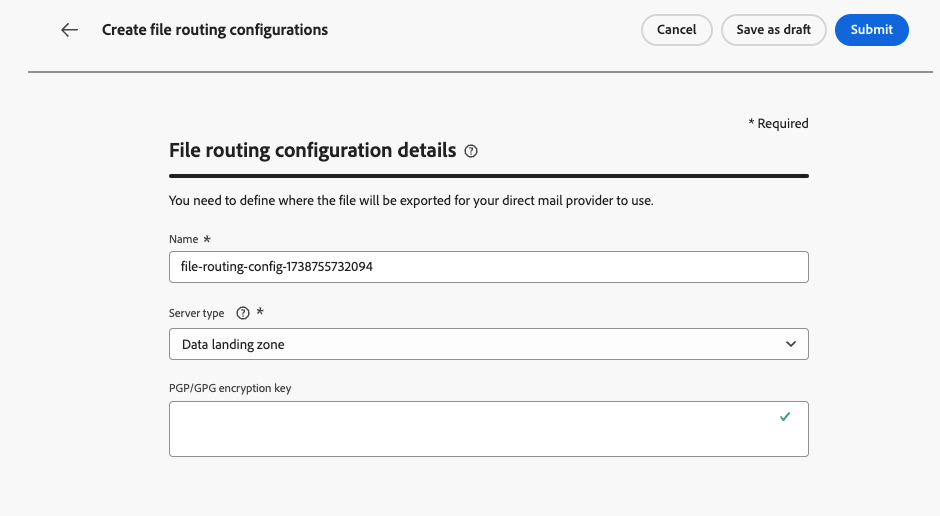
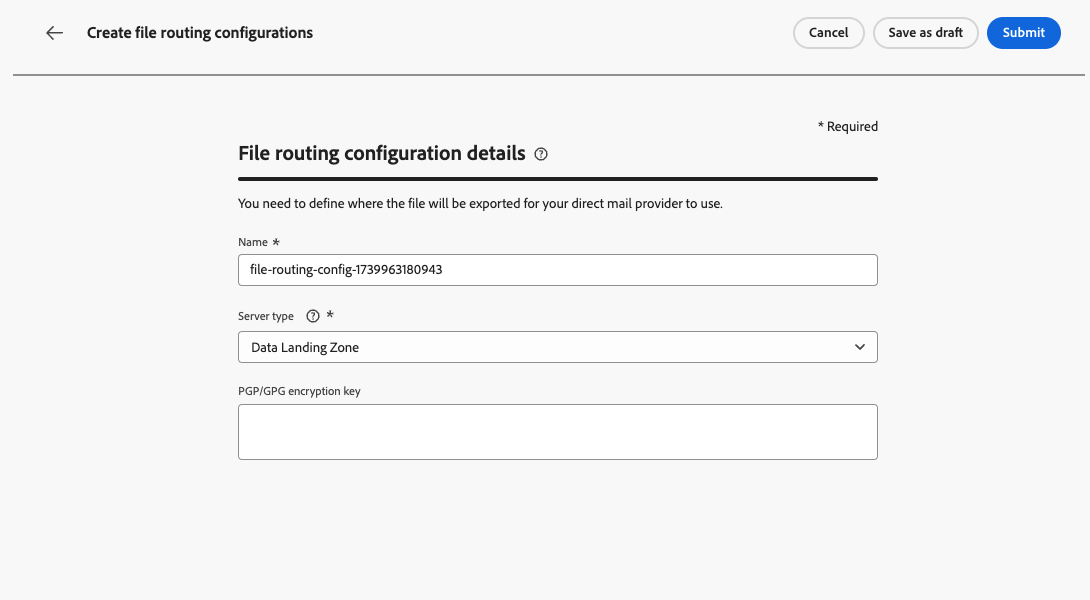
DOCAC-12034 DM config doc updates

diff --git a/help/using/direct-mail/direct-mail-configuration.md b/help/using/direct-mail/direct-mail-configuration.md
@@ -45,7 +45,7 @@ Before being able to generate this file, you need to create:
 >[!CONTEXTUALHELP]
 >id="ajo_dm_file_routing_type"
 >title="Select the server type for your file"
->abstract="Choose which type of server you want to use for exporting your direct mail files: Amazon S3, SFTP, or Azure."
+>abstract="Choose which type of server you want to use for exporting your direct mail files: Amazon S3, SFTP, Azure, or Data Landing Zone."
 
 >[!CONTEXTUALHELP]
 >id="ajo_dm_file_routing_aws_region"
@@ -54,7 +54,7 @@ Before being able to generate this file, you need to create:
 
 >[!NOTE]
 >
->Currently Amazon S3, SFTP, Azure, and Data landing zone are supported in [!DNL Journey Optimizer].
+>Currently Amazon S3, SFTP, Azure, and Data Landing Zone are supported in [!DNL Journey Optimizer].
 
 To deliver a direct mail message, [!DNL Journey Optimizer] generates and exports the file containing your targeted audience data to a server.
 
@@ -62,19 +62,25 @@ You need to specify that server details so that your direct mail provider can ac
 
 To configure the file routing, follow the steps below.
 
->[!BEGINTABS]
-
->[!TAB Amazon S3]
-
 1. Access the **[!UICONTROL Administration]** > **[!UICONTROL Channels]** > **[!UICONTROL Direct mail settings]** > **[!UICONTROL File Routing]** menu, then click **[!UICONTROL Create routing configuration]**.
 
     ![](assets/file-routing-config-button.png){width="800" align="center"}
 
 1. Set a name for your configuration.
 
-1. Select **Amazon S3** as the **[!UICONTROL Server type]** to use for exporting the direct mail files.
+1. Select the type of server you want to use for exporting your direct mail files: Amazon S3, SFTP, Azure, or Data Landing Zone. The fields specific to each server type are detailed in the tabs below.
 
     ![](assets/file-routing-config-type.png){width="800" align="center"}
+
+1. Select **[!UICONTROL Submit]**. The file routing configuration is created with the **[!UICONTROL Active]** status. It is now ready to be used in a [direct mail configuration](#direct-mail-surface).
+
+    You can also select **[!UICONTROL Save as draft]** to create the file routing configuration, but you will not be able to select it in a configuration until it is **[!UICONTROL Active]**.
+
+>[!BEGINTABS]
+
+>[!TAB Amazon S3]
+
+1. Select **[!UICONTROL Amazon S3]** as the **[!UICONTROL Server type]**.
 
 1. Fill in the details and credentials for your server
 
@@ -90,21 +96,9 @@ To configure the file routing, follow the steps below.
 
 1. To encrypt the file, copy-paste your encryption key in the **[!UICONTROL PGP/GPG encryption key]** field.
 
-1. Select **[!UICONTROL Submit]**. The file routing configuration is created with the **[!UICONTROL Active]** status. It is now ready to be used in a [direct mail configuration](#direct-mail-surface).
-
-    You can also select **[!UICONTROL Save as draft]** to create the file routing configuration, but you will not be able to select it in a configuration until it is **[!UICONTROL Active]**.
-
 >[!TAB SFTP]
 
-1. Access the **[!UICONTROL Administration]** > **[!UICONTROL Channels]** > **[!UICONTROL Direct mail settings]** > **[!UICONTROL File Routing]** menu, then click **[!UICONTROL Create routing configuration]**.
-
-    ![](assets/file-routing-config-button.png){width="800" align="center"}
-
-1. Set a name for your configuration.
-
-1. Select SFTP as the **[!UICONTROL Server type]** to use for exporting the direct mail files.
-
-    ![](assets/file-routing-config-type-sftp.png){width="800" align="center"}
+1. Select **[!UICONTROL SFTP]** as the **[!UICONTROL Server type]**.
 
 1. Fill in the details and credentials for your server:
 
@@ -124,21 +118,9 @@ To configure the file routing, follow the steps below.
 
 1. To encrypt the file, copy-paste your encryption key in the **[!UICONTROL PGP/GPG encryption key]** field.
 
-1. Select **[!UICONTROL Submit]**. The file routing configuration is created with the **[!UICONTROL Active]** status. It is now ready to be used in a [direct mail configuration](#direct-mail-surface).
-
-    You can also select **[!UICONTROL Save as draft]** to create the file routing configuration, but you will not be able to select it in a configuration until it is **[!UICONTROL Active]**.
-
 >[!TAB Azure]
 
-1. Access the **[!UICONTROL Administration]** > **[!UICONTROL Channels]** > **[!UICONTROL Direct mail settings]** > **[!UICONTROL File Routing]** menu, then click **[!UICONTROL Create routing configuration]**.
-
-    ![](assets/file-routing-config-button.png){width="800" align="center"}
-
-1. Set a name for your configuration.
-
-1. Select Azure as the **[!UICONTROL Server type]** to use for exporting the direct mail files.
-
-    ![](assets/file-routing-config-type-azure.png){width="800" align="center"}
+1. Select **[!UICONTROL Azure]** as the **[!UICONTROL Server type]**.
 
 1. Fill in the details and credentials for your server:
 
@@ -150,35 +132,25 @@ To configure the file routing, follow the steps below.
 
     * **Container Name**: To find your **Container Name**, refer to [this page](https://learn.microsoft.com/en-us/azure/storage/blobs/blob-containers-portal).
 
-        The **Container Name** should contain only the container's name without any slashes. To specify a path within the container for saving the file, update the direct mail campaign's **[!UICONTROL Filename]** field to include the desired path. [Learn more](create-direct-mail.md#extraction-file)
+        The **Container Name** should contain only the container's name without any slashes.
+        
+        >[!NOTE]
+        >
+        >To specify a path within the container for saving the file, update the direct mail campaign's **[!UICONTROL Filename]** field to include the desired path. [Learn more](create-direct-mail.md#extraction-file)
+
+        ![](assets/file-routing-config-azure-detail.png)
 
 1. To encrypt the file, copy-paste your encryption key in the **[!UICONTROL PGP/GPG encryption key]** field.
 
-1. Select **[!UICONTROL Submit]**. The file routing configuration is created with the **[!UICONTROL Active]** status. It is now ready to be used in a [direct mail configuration](#direct-mail-surface).
+>[!TAB Data Landing Zone]
 
-    You can also select **[!UICONTROL Save as draft]** to create the file routing configuration, but you will not be able to select it in a configuration until it is **[!UICONTROL Active]**.
+1. Select **[!UICONTROL Data Landing Zone]** as the **[!UICONTROL Server type]**.
 
->[!TAB Data landing zone]
-
-1. Access the **[!UICONTROL Administration]** > **[!UICONTROL Channels]** > **[!UICONTROL Direct mail settings]** > **[!UICONTROL File Routing]** menu, then click **[!UICONTROL Create routing configuration]**.
-
-    ![](assets/file-routing-config-button.png){width="800" align="center"}
-
-1. Set a name for your configuration.
-
-1. Select Data landing zone as the **[!UICONTROL Server type]** to use for exporting the direct mail files.
-
-    ![](assets/file-routing-config-type-dlz.png){width="800" align="center"}
-
-1. To encrypt the file, copy-paste your encryption key in the **[!UICONTROL PGP/GPG encryption key]** field. <!--To find it, ...-->
+1. To encrypt the file, copy-paste your encryption key in the **[!UICONTROL PGP/GPG encryption key]** field.
 
     ![](assets/file-routing-config-dlz-detail.png)
 
-1. Select **[!UICONTROL Submit]**. The file routing configuration is created with the **[!UICONTROL Active]** status. It is now ready to be used in a [direct mail configuration](#direct-mail-surface).
-
-    You can also select **[!UICONTROL Save as draft]** to create the file routing configuration, but you will not be able to select it in a configuration until it is **[!UICONTROL Active]**.
-
-Learn more on Data landing zone in the [Adobe Experience Platform documentation](https://experienceleague.adobe.com/en/docs/experience-platform/sources/connectors/cloud-storage/data-landing-zone){target="_blank"}.
+Learn more on Data Landing Zone in the [Adobe Experience Platform documentation](https://experienceleague.adobe.com/en/docs/experience-platform/sources/connectors/cloud-storage/data-landing-zone){target="_blank"}.
 
 >[!ENDTABS]
 
